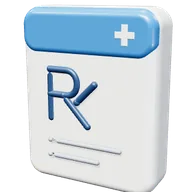
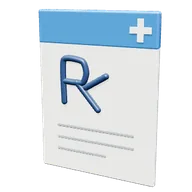
Símbolos modelados en 3D real (15 más): silbato, balón, cronómetro, trofeo, tenis, cono, receta, bata, plato con cubiertos, cinta métrica, zanahoria, rompecabezas, libreta, nube de pensamiento y foco

Changed region(s): [[0.125, 0.0, 0.9062, 1.0], [0.5312, 0.6875, 0.7188, 0.7188]]

diff --git a/datos/simbolos3d/models.js b/datos/simbolos3d/models.js
@@ -34,10 +34,126 @@ export function kit(material,g){
   return K;
 }
 
-const PU='#8E5BB5',TE='#2FA39A';const GY='#8C96A0',ST='#A9B6C2',BK='#3A4048',WH='#F3F1EA',RE='#DE4A3C',BL='#3F82C4',GR='#4FAE5B',YE='#F6CD3B',BR='#8A5A36',WO='#B9804B',GO='#E8B53C',NA='#2D4A6E',CR='#F0E2C2',SK='#E7A97C';
+const PU='#8E5BB5',TE='#2FA39A',OR='#F08A2E';const GY='#8C96A0',ST='#A9B6C2',BK='#3A4048',WH='#F3F1EA',RE='#DE4A3C',BL='#3F82C4',GR='#4FAE5B',YE='#F6CD3B',BR='#8A5A36',WO='#B9804B',GO='#E8B53C',NA='#2D4A6E',CR='#F0E2C2',SK='#E7A97C';
 
 const circ=(cx,cy,r,n,a0,a1)=>{a0=a0==null?0:a0;a1=a1==null?Math.PI*2:a1;const o=[];for(let i=0;i<n;i++){const a=a0+(a1-a0)*i/(n-(Math.abs(a1-a0-Math.PI*2)<1e-6?0:1));o.push([cx+Math.cos(a)*r,cy+Math.sin(a)*r])}return o};
 export const MODELS={
+  // Silbato metálico con cámara, boquilla, ranura, argolla y cordón
+  'educfisica.a'(K){
+    K.cyl(16,16,16,ST,{m:'metal',r:[90,0,0]});K.box(36,13,16,ST,{m:'metal',p:[20,9,0],rad:3});
+    K.box(8,2,10,'#3A4048',{p:[8,15.8,0],rad:0.6});
+    K.tor(5,1.2,ST,{m:'metal',p:[-17,10,0],r:[90,0,0]});
+    K.tube([[-20,6,0],[-30,-10,4],[-28,-30,2],[-18,-40,0]],1.4,RE,{});
+  },
+  // Balón de futbol: pentágonos negros repartidos en toda la esfera
+  'educfisica.b'(K){
+    K.sph(34,WH);
+    const phi=(1+Math.sqrt(5))/2;const V=[[0,1,phi],[0,-1,phi],[0,1,-phi],[0,-1,-phi],[1,phi,0],[-1,phi,0],[1,-phi,0],[-1,-phi,0],[phi,0,1],[-phi,0,1],[phi,0,-1],[-phi,0,-1]];
+    V.forEach(v=>{const n=new THREE.Vector3(...v).normalize();const m=K.cyl(10,10,2,'#2B3540',{seg:5,p:[n.x*33.4,n.y*33.4,n.z*33.4]});m.quaternion.setFromUnitVectors(new THREE.Vector3(0,1,0),n)});
+  },
+  // Cronómetro con corona, botón, carátula, manecillas y escala
+  'o_cronometro.a'(K){
+    K.cyl(32,32,12,'#5B6670',{m:'metal',r:[90,0,0],seg:64});K.cyl(27,27,12.6,WH,{r:[90,0,0],seg:64});
+    K.cyl(5,5,8,ST,{m:'metal',p:[0,36,0]});K.cyl(7,7,4,'#3A4048',{p:[0,42,0]});
+    K.cyl(3,3,7,ST,{m:'metal',p:[22,26,0],r:[0,0,-40]});
+    [6.5,-6.5].forEach(z=>{for(let i=0;i<12;i++){const a=i/12*Math.PI*2;K.box(i%3?1:1.6,i%3?3:5,0.6,'#3A4048',{p:[Math.sin(a)*23,Math.cos(a)*23,z],r:[0,0,-a*180/Math.PI],rad:0.2})}
+      K.box(2,18,0.8,'#2B3540',{p:[0,8,z*1.05],rad:0.5});K.box(2,13,0.8,'#2B3540',{p:[5,-3,z*1.05],r:[0,0,-50],rad:0.5});K.sph(2.4,RE,{p:[0,0,z]})});
+  },
+  // Trofeo: copa dorada con asas, estrella, pedestal y base con placa
+  'o_trofeo.a'(K){
+    K.lathe([[0.01,-2],[6,-2],[16,6],[22,20],[24,34],[22,34],[20,22],[14,10],[0.01,4]],GO,{m:'gold'});
+    [-1,1].forEach(sd=>K.tor(9,2.2,GO,{m:'gold',p:[sd*24,22,0],arc:200,r:[0,0,sd<0?80:-100]}));
+    K.cyl(3,5,14,GO,{m:'gold',p:[0,-9,0]});K.cyl(10,12,4,GO,{m:'gold',p:[0,-18,0]});
+    K.box(34,14,24,'#6B4A2A',{m:'wood',p:[0,-27,0],rad:2});K.box(20,6,1,'#F3CB5E',{m:'gold',p:[0,-27,12.4],rad:0.6});
+    K.ext('M0 -9 L2.6 -3 L9 -2.8 L4 1.4 L5.6 8 L0 4.4 L-5.6 8 L-4 1.4 L-9 -2.8 L-2.6 -3 Z',2,'#FFF1B0',{m:'gold',bevel:0.6,p:[0,22,23.2]});
+  },
+  // Tenis: suela, cuerpo, puntera, lengüeta, agujetas y franja
+  'o_tenis.a'(K){
+    const F=K.group({r:[180,0,0]});
+    K.ext('M-38 -10 L-38 12 C-38 22 -30 24 -24 22 L-14 18 C-8 26 4 26 10 18 L30 6 C38 2 42 -4 42 -10 Z',22,WH,{bevel:4,parent:F});
+    K.ext('M-41 -9 H44 C47 -9 47 -17 43 -17 H-39 C-43 -17 -43 -9 -41 -9 Z',28,'#F2EEE6',{bevel:1.5,parent:F});
+    K.ext('M-40 -15 H44 C46 -15 46 -20 42 -20 H-38 C-42 -20 -42 -15 -40 -15 Z',28.4,'#E2683E',{bevel:1,parent:F});
+    K.sph(9,'#3A4048',{p:[-28,27.6,0],s:[1.1,0.3,1]});
+    K.box(12,10,12,BL,{p:[-17,29,0],r:[0,0,-30],rad:4});
+    [[-8,28.5],[-2,29.5],[4,28.5],[10,24],[16,20.5]].forEach(([x,y])=>K.tube([[x,y-3,-12],[x,y+0.4,0],[x,y-3,12]],0.9,'#3A4048',{}));
+    [14.6,-14.6].forEach(z=>{K.tube([[-30,-4,z],[-4,6,z],[24,0,z]],1.6,BL,{});K.box(8,8,1,'#D5DCE2',{p:[-34,2,z],rad:1})});
+  },
+
+  // Cono de entrenamiento con franjas y base cuadrada
+  'o_cono.a'(K){
+    K.box(56,4,56,OR,{p:[0,-30,0],rad:2});
+    K.cyl(4,20,56,OR,{p:[0,0,0]});
+    [[-6,15.6,10.6],[10,10.4,5.6]].forEach(([y,rb,rt])=>K.cyl(rt+0.3,rb+0.3,8,WH,{p:[0,y,0],open:true}));
+  },
+  // Receta médica: hoja con encabezado, Rx y líneas en ambas caras
+  'o_receta.a'(K){
+    K.box(60,78,3,WH,{rad:1.2});K.box(60,16,3.4,BL,{p:[0,31,0],rad:1.2});
+    [1.9,-1.9].forEach(z=>{const g=K.group({p:[0,0,z],r:[0,z<0?180:0,0]});
+      K.box(10,3,0.6,WH,{p:[22,31,0.2],rad:0.4,parent:g});K.box(3,10,0.6,WH,{p:[22,31,0.2],rad:0.4,parent:g});
+      K.tube([[-16,-4,0],[-16,16,0],[-6,16,0],[-4,11,0],[-6,6,0],[-16,6,0]],1.4,NA,{tension:0.3,parent:g});K.tube([[-9,6,0],[2,-6,0]],1.4,NA,{parent:g});K.tube([[-4,4,0],[6,10,0]],1.4,NA,{parent:g});
+      [-16,-22,-28].forEach((y,i)=>K.box(i==2?26:40,1.2,0.5,'#9AA3AC',{p:[i==2?-7:0,y,0],rad:0.3,parent:g}))});
+  },
+  // Bata médica con mangas, solapas, botones, bolsillos y pluma
+  'o_bata.a'(K){
+    K.box(50,70,16,WH,{p:[0,-6,0],rad:6});
+    [-1,1].forEach(sd=>{K.cyl(7,8,54,WH,{p:[sd*30,-4,0],r:[0,0,sd*12]});
+      K.box(14,24,2,'#E6ECEF',{p:[sd*8,20,8.6],r:[0,0,sd*-20],rad:1});K.box(14,10,1.4,'#E1E6EA',{p:[sd*14,-26,8.4],rad:1})});
+    K.box(14,8,8,WH,{p:[0,30,-2],rad:3});
+    [16,2,-12].forEach(y=>K.sph(1.6,'#9AA3AC',{p:[4,y,8.6]}));
+    K.box(10,8,1.4,'#E1E6EA',{p:[14,10,8.4],rad:1});K.cyl(1,1,12,BL,{p:[12,14,9.4]});
+  },
+  // Plato con comida, tenedor y cuchillo
+  'nutricion.b'(K){
+    const g=K.group({r:[60,0,0]});
+    K.lathe([[0.01,0],[22,0],[30,3],[34,5],[33,6],[24,3.4],[0.01,2.6]],WH,{parent:g});
+    K.sph(7,GR,{p:[-8,6,-4],s:[1,0.7,1],parent:g});K.sph(6,RE,{p:[8,5,4],s:[1,0.7,1],parent:g});K.sph(5,YE,{p:[4,5,-10],s:[1,0.6,1],parent:g});
+    K.box(3,2,40,ST,{m:'metal',p:[-44,2,6],parent:g,rad:0.8});for(let i=0;i<4;i++)K.box(0.9,1.6,12,ST,{m:'metal',p:[-45.4+i*1,2,-20],parent:g,rad:0.3});
+    K.box(3,2,34,ST,{m:'metal',p:[44,2,10],parent:g,rad:0.8});K.box(6,1.4,22,ST,{m:'metal',p:[45,2,-16],parent:g,rad:0.6});
+  },
+  // Cinta métrica: caja con cinta saliendo, freno y gancho
+  'o_cinta.a'(K){
+    K.box(44,44,18,'#2B3540',{rad:8});K.cyl(17,17,19,YE,{r:[90,0,0]});K.cyl(6,6,20,ST,{m:'metal',r:[90,0,0]});
+    K.box(10,6,8,RE,{p:[-8,23,0],rad:2});
+    K.box(40,1.2,12,'#F2C230',{p:[38,-20,0],rad:0.3});
+    for(let i=0;i<10;i++)K.box(0.6,0.4,i%2?3:6,'#3A3026',{p:[22+i*4,-19.2,-3+(i%2?1.5:0)]});
+    K.box(2,8,12,ST,{m:'metal',p:[58,-17,0],rad:0.6});
+  },
+  // Zanahoria con hojas
+  'o_zanahoria.a'(K){
+    const g=K.group({r:[0,0,-30]});
+    K.lathe([[0.01,-40],[3,-34],[8,-10],[11,10],[10,18],[0.01,20]],OR,{parent:g});
+    for(let i=0;i<6;i++)K.tor(9-i*1.2,0.4,'#C9661E',{p:[0,6-i*7,0],r:[90,0,i*13],arc:90,parent:g});
+    [[-20,0],[0,0],[20,0],[-10,90],[10,90]].forEach(([a,b])=>{const q=K.group({p:[0,20,0],r:[a,b,0],parent:g});K.cap(2.6,18,GR,{p:[0,12,0],parent:q})});
+  },
+  // Pieza de rompecabezas con pestañas y hendiduras
+  'o_rompecabezas.a'(K){
+    const o=[];const sq=(x0,y0,x1,y1)=>{};
+    const pts=[[-24,-24]];
+    const tab=(ax,ay,bx,by,out)=>{const mx=(ax+bx)/2,my=(ay+by)/2,dx=(bx-ax)/48,dy=(by-ay)/48,nx=-dy*out,ny=dx*out;const res=[[mx-dx*7,my-dy*7]];for(let i=0;i<=16;i++){const a=Math.PI*1.25-i/16*Math.PI*1.5;res.push([mx+Math.cos(a)*8*dx*(-1)+nx*(14+Math.sin(a)*8)*0+(-dy*out)*0,0])}return res};
+    const shp='M-24 -24 H-8 C-8 -32 8 -32 8 -24 H24 V-8 C32 -8 32 8 24 8 V24 H8 C8 16 -8 16 -8 24 H-24 V8 C-16 8 -16 -8 -24 -8 Z';
+    K.ext(shp,12,PU,{bevel:2.4});
+  },
+  // Libreta de espiral con hojas y pluma
+  'o_libreta.a'(K){
+    K.box(54,70,8,'#F2C94C',{rad:2});K.box(48,64,1,WH,{p:[3,0,4.4],rad:1});
+    for(let i=0;i<5;i++)K.box(36,1,0.5,'#9AA3AC',{p:[5,18-i*9,5],rad:0.3});
+    for(let i=0;i<8;i++)K.tor(3.4,0.7,ST,{m:'metal',p:[-27,30-i*8.6,0],r:[0,90,0]});
+    const p=K.group({p:[24,-4,9],r:[0,0,-25]});K.cyl(2.4,2.4,50,BL,{parent:p});K.cone(2.4,6,'#F2D3A0',{p:[0,-28,0],r:[180,0,0],parent:p});K.box(1.2,14,2,ST,{m:'metal',p:[2.6,16,0],parent:p});
+  },
+  // Nube de pensamiento hecha de esferas con burbujas
+  'o_pensamiento.a'(K){
+    [[0,14,0,18],[-20,6,0,14],[20,6,0,14],[-10,-4,4,13],[10,-4,4,13],[-30,-4,0,10],[30,-4,0,10],[0,0,6,14]].forEach(([x,y,z,r])=>K.sph(r,WH,{p:[x,y,z],s:[1,1,0.8]}));
+    K.sph(5,WH,{p:[-26,-24,4]});K.sph(3,WH,{p:[-34,-32,4]});
+  },
+  // Foco: bulbo de vidrio con filamento, rosca y contacto
+  'o_foco.a'(K){
+    K.lathe([[0.01,-6],[10,-6],[12,2],[22,16],[26,30],[24,42],[16,50],[0.01,53]],'#FFF3B8',{m:'glass'});
+    K.tube([[-4,-4,0],[-4,12,0],[-6,20,0]],0.6,'#8994A0',{});K.tube([[4,-4,0],[4,12,0],[6,20,0]],0.6,'#8994A0',{});
+    K.tube([[-6,20,0],[-3,24,0],[0,20,0],[3,24,0],[6,20,0]],0.7,'#F2A21E',{});
+    K.cyl(11,10,14,ST,{m:'metal',p:[0,-13,0]});for(let i=0;i<4;i++)K.tor(11,1,'#8994A0',{m:'metal',p:[0,-8-i*3.4,0],r:[90,0,0]});
+    K.cyl(7,4,5,'#3A4048',{p:[0,-23,0]});
+  },
+
   // Cofia de enfermera con cruz roja al frente
   'enfermeria.a'(K){
     K.lathe([[0.01,0],[31,0],[30,4],[24,16],[14,24],[0.01,26]],WH,{s:[1,1,0.8]});
